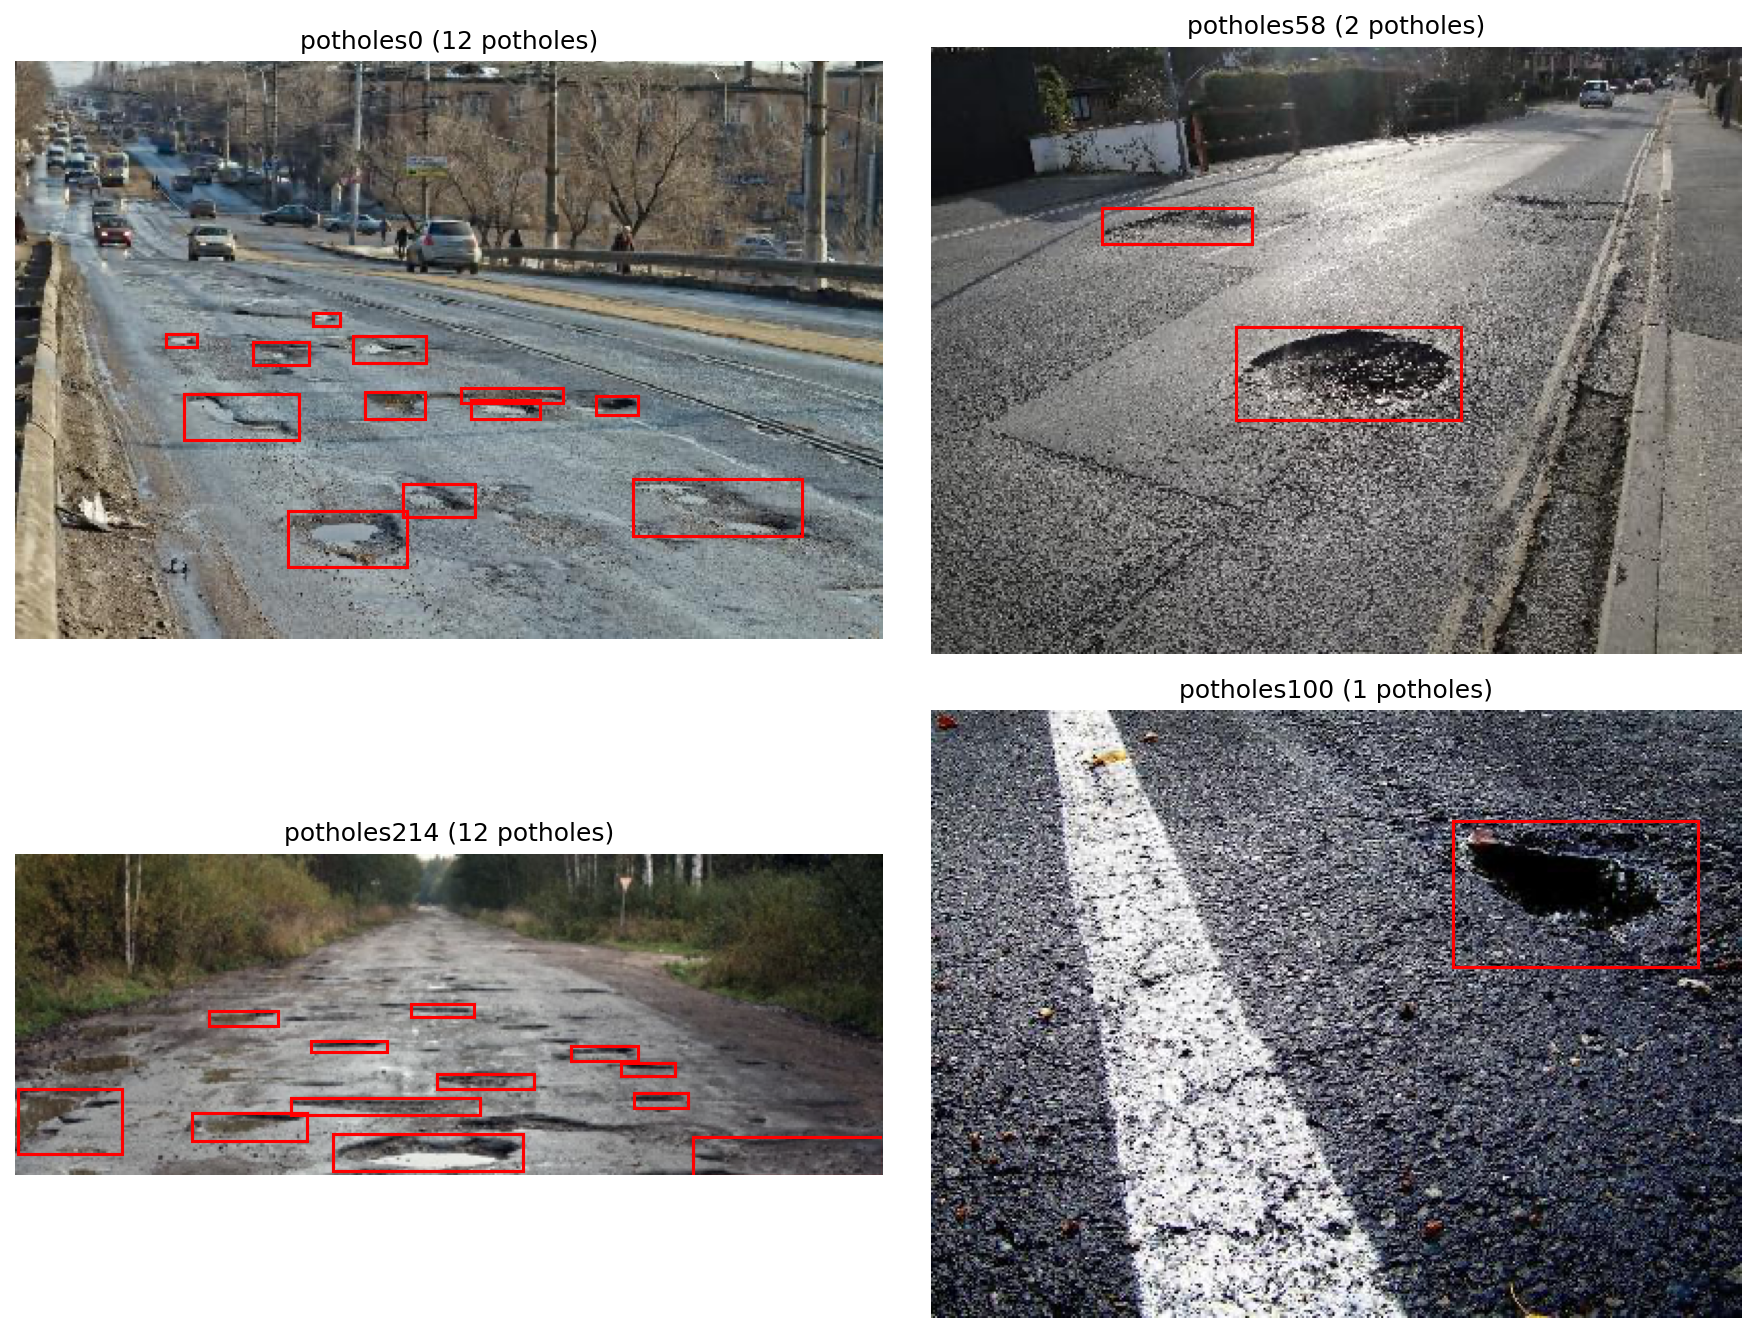
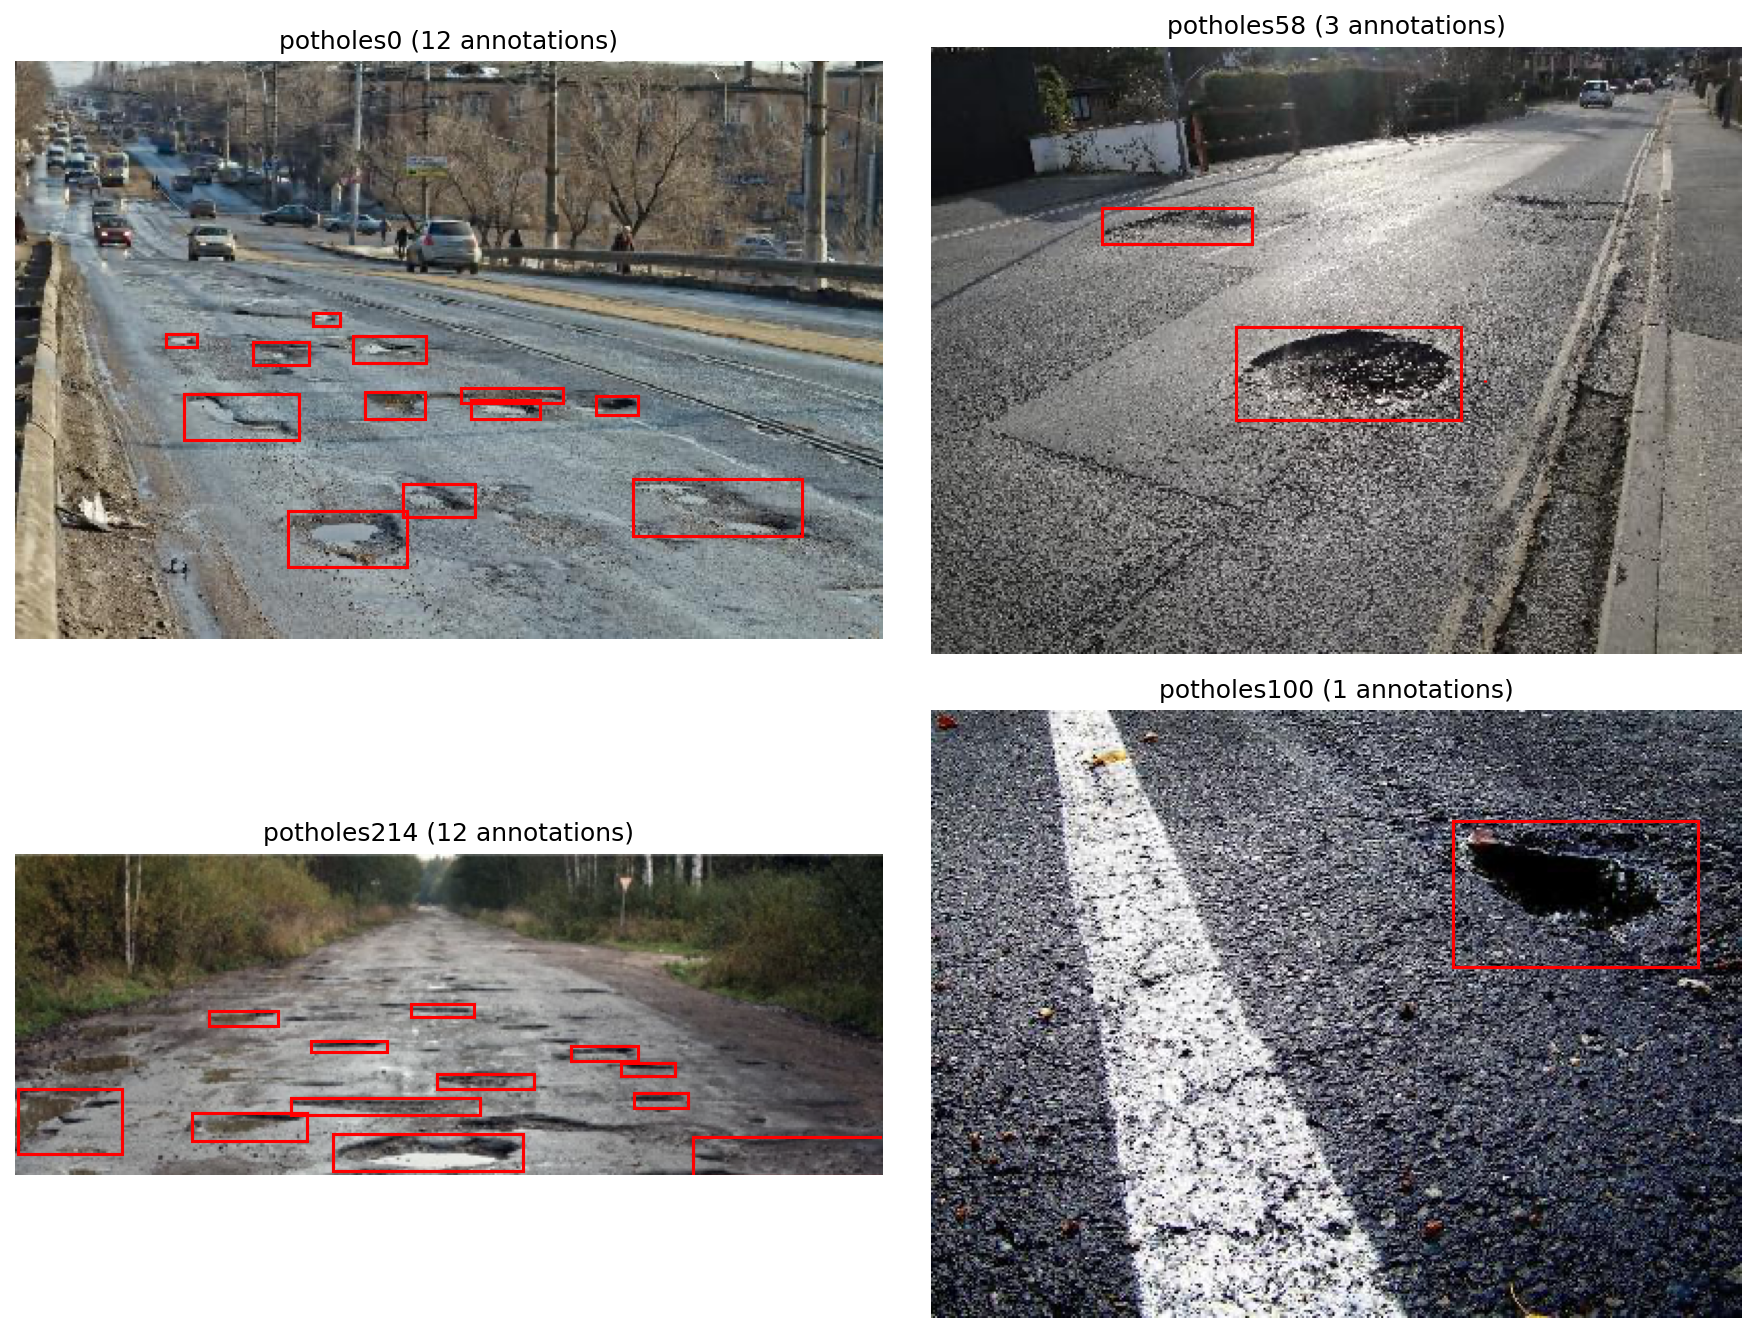
edited soem stuff

diff --git a/visualize_data.py b/visualize_data.py
@@ -2,19 +2,18 @@ from pathlib import Path
 import xml.etree.ElementTree as ET
 
 import matplotlib
-matplotlib.use("Agg")  # Save figures without a display
+matplotlib.use("Agg")
 
 import matplotlib.pyplot as plt
 from matplotlib.patches import Rectangle
 from PIL import Image
-
 
 # Paths
 DATASET = Path("/dtu/datasets1/02516/potholes")
 OUTPUT = Path(__file__).resolve().parent / "visualizations"
 OUTPUT.mkdir(parents=True, exist_ok=True)
 
-# Images to visualize
+# Images to inspect
 EXAMPLES = [
     "potholes0",
     "potholes58",
@@ -22,22 +21,22 @@ EXAMPLES = [
     "potholes100",
 ]
 
-# Create a 2x2 figure
 fig, axes = plt.subplots(2, 2, figsize=(12, 9))
 
 for ax, name in zip(axes.flat, EXAMPLES):
     image_path = DATASET / "images" / f"{name}.png"
     annotation_path = DATASET / "annotations" / f"{name}.xml"
 
-    # Load image and annotation
-    image = Image.open(image_path).convert("RGB")
+    # Read original image and annotations
+    image = Image.open(image_path)
     root = ET.parse(annotation_path).getroot()
 
     ax.imshow(image)
 
-    valid_boxes = 0
+    # Display all original bounding boxes
+    objects = root.findall("object")
 
-    for obj in root.findall("object"):
+    for obj in objects:
         box = obj.find("bndbox")
 
         xmin = int(box.findtext("xmin"))
@@ -45,35 +44,23 @@ for ax, name in zip(axes.flat, EXAMPLES):
         xmax = int(box.findtext("xmax"))
         ymax = int(box.findtext("ymax"))
 
-        # Clip coordinates to image boundaries
-        xmin = max(0, min(xmin, image.width))
-        xmax = max(0, min(xmax, image.width))
-        ymin = max(0, min(ymin, image.height))
-        ymax = max(0, min(ymax, image.height))
-
-        # Skip invalid boxes
-        if xmax <= xmin or ymax <= ymin:
-            continue
-
-        # Draw bounding box
         rectangle = Rectangle(
             (xmin, ymin),
             xmax - xmin,
             ymax - ymin,
             linewidth=1.5,
             edgecolor="red",
-            facecolor="none",
+            facecolor="none"
         )
 
         ax.add_patch(rectangle)
-        valid_boxes += 1
 
-    ax.set_title(f"{name} ({valid_boxes} potholes)")
+    ax.set_title(f"{name} ({len(objects)} annotations)")
     ax.axis("off")
 
-# Save figure
 plt.tight_layout()
 
+# Save visualization only
 save_path = OUTPUT / "ground_truth_examples.png"
 plt.savefig(save_path, dpi=150, bbox_inches="tight")
 plt.close()
